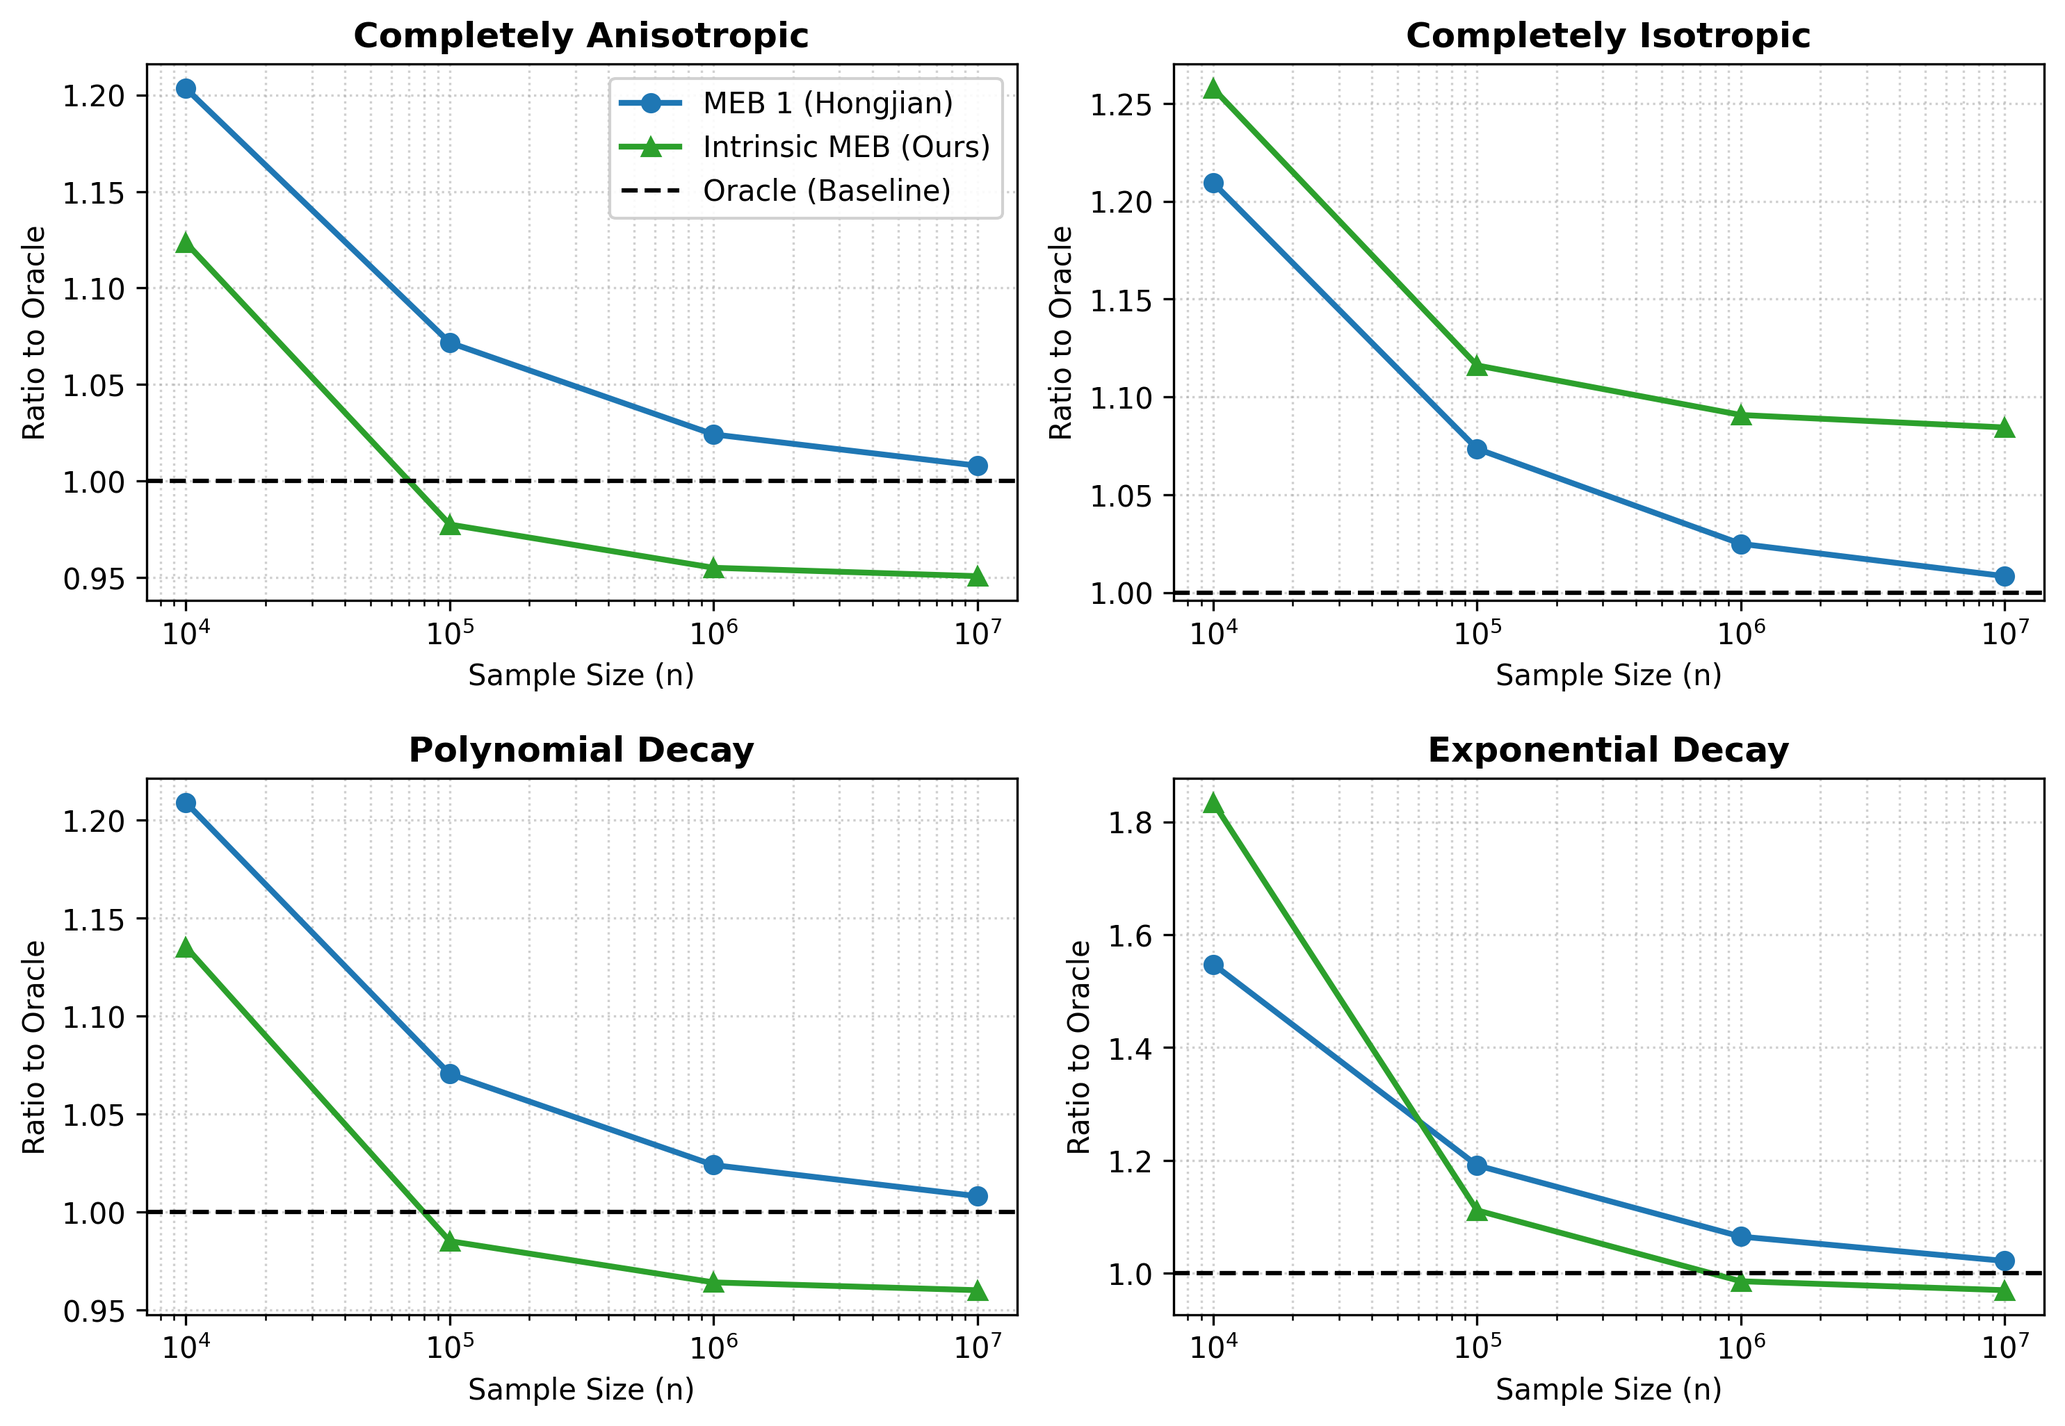
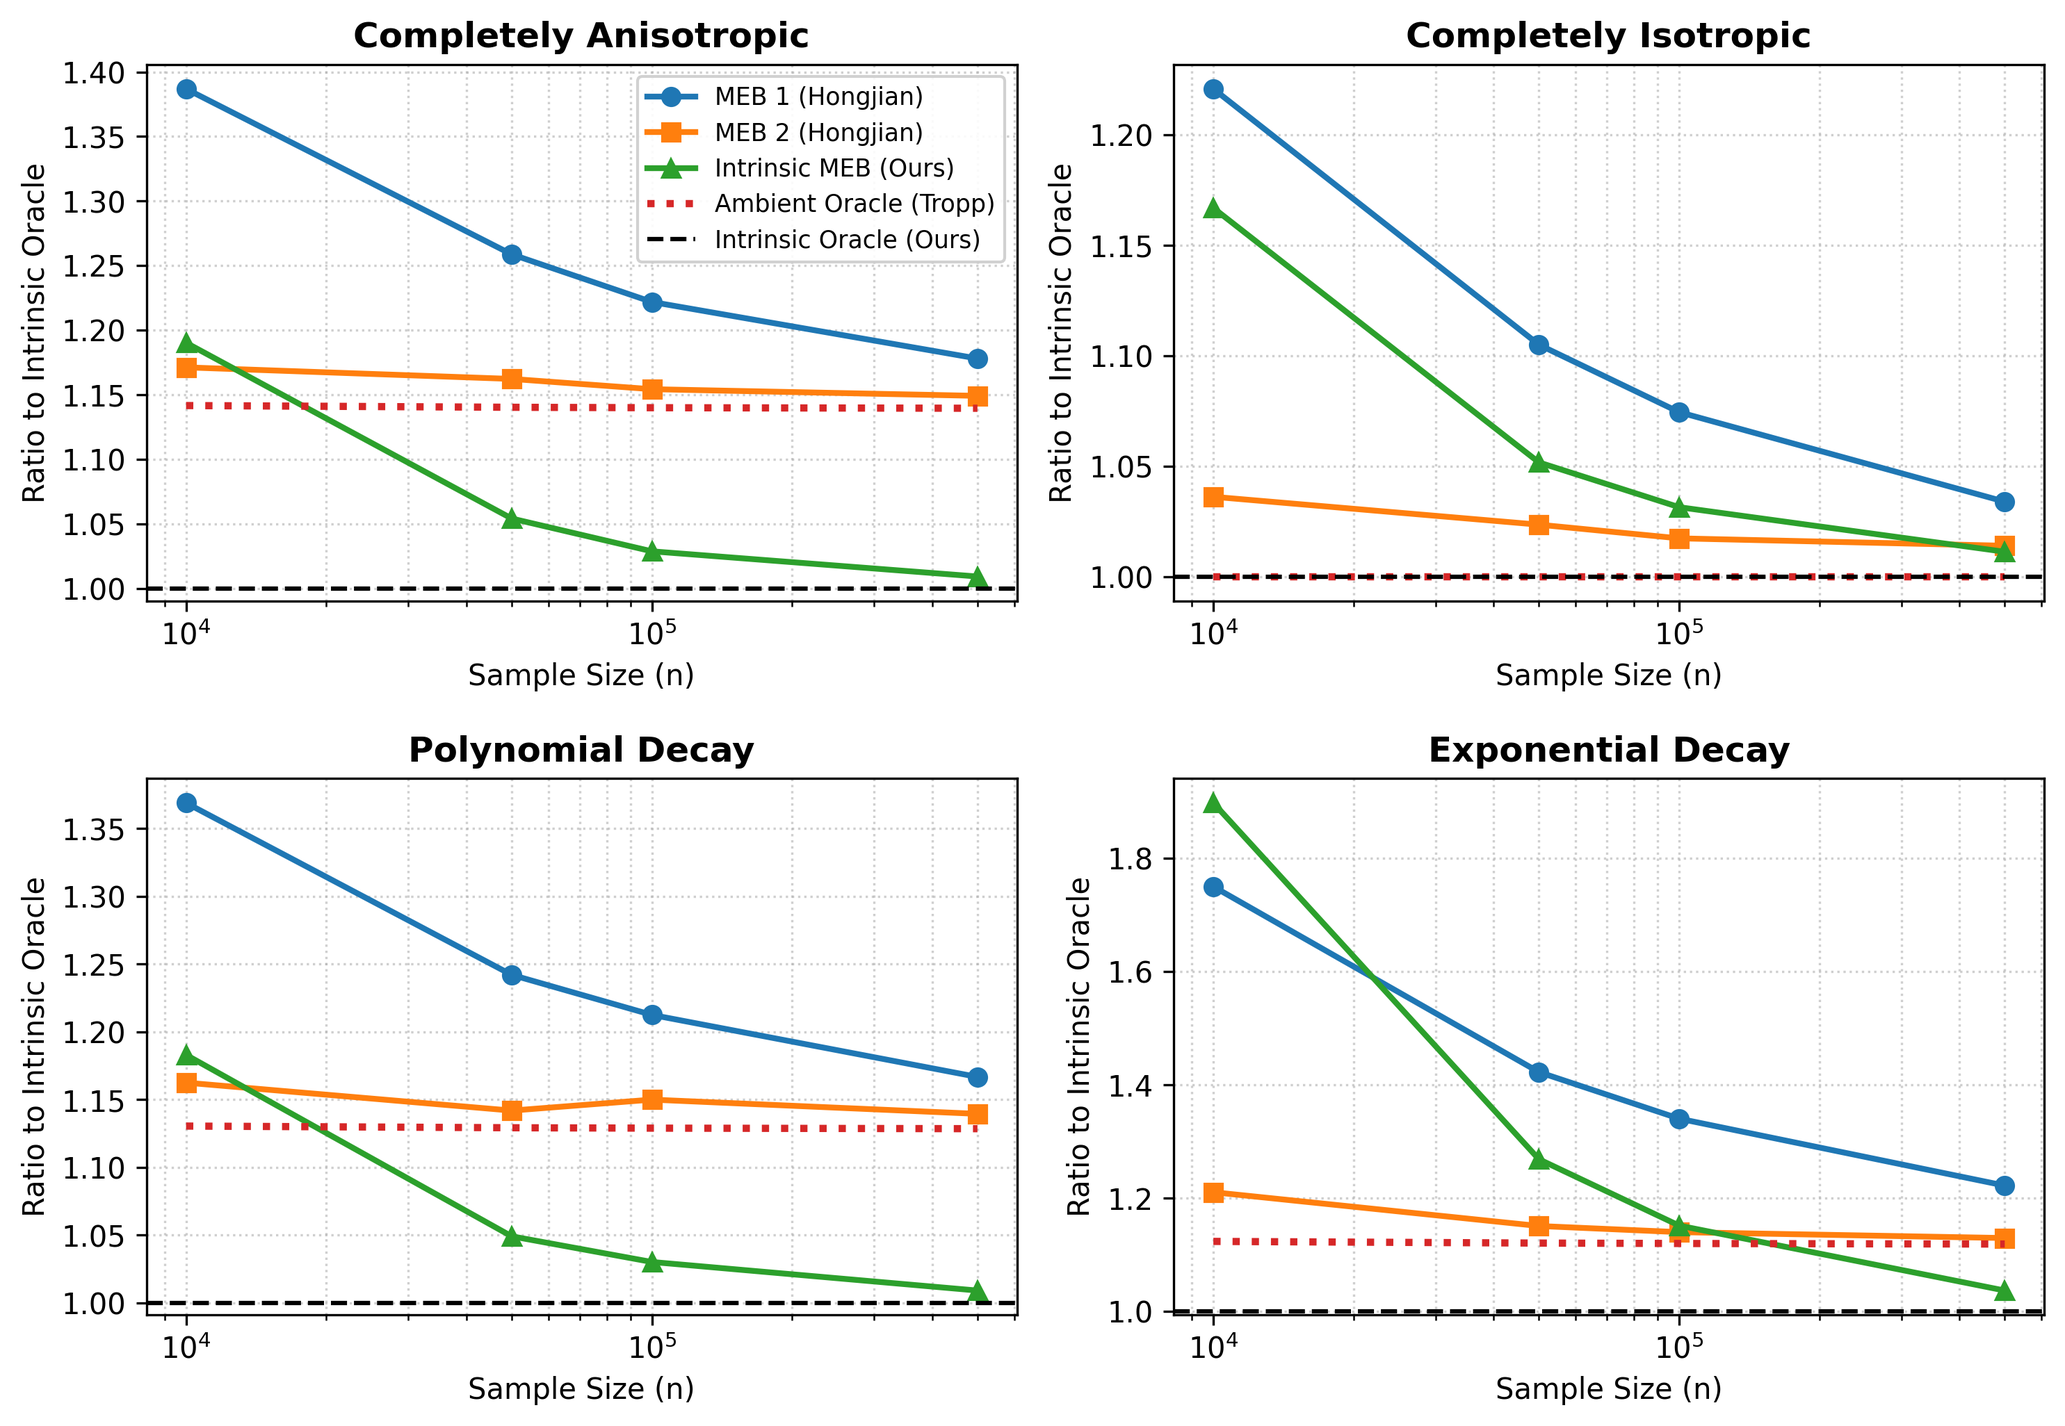
Before getting rid of exponential decay

diff --git a/hongjian_comparison.py b/hongjian_comparison.py
@@ -9,15 +9,10 @@ def psi_E(gamma):
     """Cumulant generating function for standard exponential."""
     return -np.log(1 - gamma) - gamma
 
+def psi_E(gamma):
+    return -np.log(1 - gamma) - gamma
+
 def simulate_inequalities(n_values, d=100, alpha=0.05, trials=50, run_meb2=True):
-    """
-    Simulates and compares the confidence radii of:
-      1. Oracle Matrix Bennett-Bernstein (D_tb)
-      2. Hongjian's MEB 1 (D_meb1)
-      3. Hongjian's MEB 2 (D_meb2) - Optional
-      4. Draft's Intrinsic Dimension MEB (R_n)
-    """
-    # Define the 4 scenarios for a_i
     indices = np.arange(1, d + 1)
     scenarios = {
         "1. Completely Anisotropic": np.array([1.0] + [0.0] * (d - 1)),
@@ -29,86 +24,86 @@ def simulate_inequalities(n_values, d=100, alpha=0.05, trials=50, run_meb2=True)
     results = []
 
     for scenario_name, a in scenarios.items():
-        # True variance parameters based on Unif[0, a_i]
         true_var = (a ** 2) / 12.0
         norm_V = np.max(true_var)
+        tr_V = np.sum(true_var)
+        true_intrinsic_dim = tr_V / norm_V
         
-
-        # Realistic worst-case parameters for the Draft's inequality
         c_bound = 1.0
-        B_bound = d * (c_bound ** 2)  # effectively just d
+        B_bound = d * (c_bound ** 2)
 
         for n in n_values:
-            assert n % 4 == 0, "n must be a multiple of 4 for this splitting scheme."
+            assert n % 4 == 0
             
-            d_tb_list, d_meb1_list, d_meb2_list, r_n_list = [], [], [], []
+            d_oracle_list, d_tb_list, d_meb1_list, d_meb2_list, r_n_list = [], [], [], [], []
             
             for _ in tqdm(range(trials)):
-                # -----------------------------------------------------------
-                # DATA GENERATION
-                # Shape: (n, d)
-                # -----------------------------------------------------------
                 X = np.random.uniform(0, a, size=(n, d))
                 
                 # -----------------------------------------------------------
-                # 1. ORACLE BENNETT-BERNSTEIN (Hongjian D_tb)
+                # 1A. DRAFT'S INTRINSIC ORACLE (Martinez-Taboada & Ramdas)
+                # Draft Eq 2 explicitly uses 2/delta already.
                 # -----------------------------------------------------------
-                term1_tb = (c_bound * np.log(d / alpha)) / (3 * n)
-                term2_tb = np.sqrt((2 * np.log(d / alpha) * norm_V) / n)
+                log_term_oracle = np.log((2 / alpha) * true_intrinsic_dim)
+                term1_oracle = np.sqrt((2 * norm_V * log_term_oracle) / n)
+                term2_oracle = (c_bound / (3 * n)) * log_term_oracle
+                d_oracle = term1_oracle + term2_oracle
+                d_oracle_list.append(d_oracle)
+
+                # -----------------------------------------------------------
+                # 1B. HONGJIAN'S AMBIENT ORACLE (Tropp)
+                # Adjusted d -> 2d for operator norm 
+                # -----------------------------------------------------------
+                log_2d_alpha = np.log((2 * d) / alpha)
+                term1_tb = (c_bound * log_2d_alpha) / (3 * n)
+                term2_tb = np.sqrt((2 * log_2d_alpha * norm_V) / n)
                 d_tb = term1_tb + term2_tb
                 d_tb_list.append(d_tb)
                 
-                
                 # -----------------------------------------------------------
-                # 2. HONGJIAN'S MEB 1 (D_meb1)
+                # 2. HONGJIAN'S MEB 1
+                # Adjusted d -> 2d
                 # -----------------------------------------------------------
                 diffs = X[0:n:2] - X[1:n:2] 
                 V_n_star_diag = np.sum(diffs ** 2, axis=0) / n
                 norm_V_n_star = np.max(V_n_star_diag)
                 
-                log_term_meb1 = np.log((n * d) / ((n - 1) * alpha))
-                log_term2_meb1 = np.log((2 * n * d) / alpha)
+                log_term_meb1 = np.log((n * 2 * d) / ((n - 1) * alpha))
+                log_term2_meb1 = np.log((4 * n * d) / alpha) # Originally 2*n*d, now 2*n*(2d)
                 
-                term1_meb1 = log_term_meb1 / (3 * n)
-                term2_meb1 = np.sqrt((2 * norm_V_n_star * log_term_meb1) / n)
-                term3_meb1 = (np.sqrt(5/3) + 1) * np.sqrt(log_term_meb1 * log_term2_meb1) / n
-                d_meb1 = term1_meb1 + term2_meb1 + term3_meb1
+                d_meb1 = (log_term_meb1 / (3 * n)) + \
+                         np.sqrt((2 * norm_V_n_star * log_term_meb1) / n) + \
+                         (np.sqrt(5/3) + 1) * np.sqrt(log_term_meb1 * log_term2_meb1) / n
                 d_meb1_list.append(d_meb1)
                 
                 # -----------------------------------------------------------
-                # 3. HONGJIAN'S MEB 2 (D_meb2) - Supermartingale Method
+                # 3. HONGJIAN'S MEB 2 (Supermartingale Method)
+                # Adjusted d -> 2d
                 # -----------------------------------------------------------
                 if run_meb2:
                     sum_X = np.zeros(d)
                     sum_X2 = np.zeros(d)
-                    
-                    v_bar_prev = max(0.25, 5 * np.log(d / alpha) / n)
+                    v_bar_prev = max(0.25, 5 * log_2d_alpha / n)
                     X_bar_prev = np.zeros(d)
-                    
                     sum_gamma = 0.0
                     sum_psi_E_diff = np.zeros(d)
                     
                     for i in range(1, n + 1):
                         x_i = X[i-1]
-                        
-                        # Calculate gamma_i
-                        gamma_i = np.sqrt((2 * np.log(d / alpha)) / (n * v_bar_prev))
+                        gamma_i = np.sqrt((2 * log_2d_alpha) / (n * v_bar_prev))
                         sum_gamma += gamma_i
-                        
-                        # Add psi_E term
                         diff_sq = (x_i - X_bar_prev) ** 2
                         sum_psi_E_diff += psi_E(gamma_i) * diff_sq
                         
-                        # Fast O(1) update of running variance for next iteration
                         sum_X += x_i
                         sum_X2 += x_i ** 2
                         X_bar_k = sum_X / i
                         V_bar_k = (sum_X2 / i) - (X_bar_k ** 2)
                         
-                        v_bar_prev = max(np.max(V_bar_k), 5 * np.log(d / alpha) / n)
+                        v_bar_prev = max(np.max(V_bar_k), 5 * log_2d_alpha / n)
                         X_bar_prev = X_bar_k
                         
-                    d_meb2 = (np.log(d / alpha) + np.max(sum_psi_E_diff)) / sum_gamma
+                    d_meb2 = (log_2d_alpha + np.max(sum_psi_E_diff)) / sum_gamma
                     d_meb2_list.append(d_meb2)
 
                 # -----------------------------------------------------------
@@ -116,13 +111,11 @@ def simulate_inequalities(n_values, d=100, alpha=0.05, trials=50, run_meb2=True)
                 # -----------------------------------------------------------
                 delta = alpha
                 d1 = ((n - 2) * delta) / n
-                d2 = delta / n
-                d3 = delta / n
+                d2, d3 = delta / n, delta / n
                 
                 X_prime = 0.5 * (diffs ** 2) 
                 Sigma_n_diag = (2 / n) * np.sum(X_prime, axis=0)
-                norm_Sigma_n = np.max(Sigma_n_diag)
-                tr_Sigma_n = np.sum(Sigma_n_diag)
+                norm_Sigma_n, tr_Sigma_n = np.max(Sigma_n_diag), np.sum(Sigma_n_diag)
                 
                 Z = np.sum(X_prime, axis=1)
                 varsigma_Z = np.std(Z, ddof=1) if len(Z) > 1 else 0
@@ -132,8 +125,7 @@ def simulate_inequalities(n_values, d=100, alpha=0.05, trials=50, run_meb2=True)
                 
                 X_prime_diffs = X_prime[0:n//2:2] - X_prime[1:n//2:2]
                 X_double_prime = 0.5 * (X_prime_diffs ** 2)
-                Sigma_prime_n_diag = (4 / n) * np.sum(X_double_prime, axis=0)
-                tr_Sigma_prime_n = np.sum(Sigma_prime_n_diag)
+                tr_Sigma_prime_n = np.sum((4 / n) * np.sum(X_double_prime, axis=0))
                 
                 Z_prime = np.sum(X_double_prime, axis=1)
                 varsigma_Z_prime = np.std(Z_prime, ddof=1) if len(Z_prime) > 1 else 0
@@ -147,38 +139,33 @@ def simulate_inequalities(n_values, d=100, alpha=0.05, trials=50, run_meb2=True)
                 
                 intrinsic_ratio = max(tau_u / sigma_u_sq, 1.0)
                 log_term_Rn = np.log((2 / d1) * intrinsic_ratio)
-                
-                term1_Rn = np.sqrt(sigma_u_sq) * np.sqrt((2 / n) * log_term_Rn)
-                term2_Rn = (c_bound / (3 * n)) * log_term_Rn
-                r_n = term1_Rn + term2_Rn
+                r_n = (np.sqrt(sigma_u_sq) * np.sqrt((2 / n) * log_term_Rn)) + ((c_bound / (3 * n)) * log_term_Rn)
                 r_n_list.append(r_n)
 
             # Averages
+            avg_d_oracle = np.mean(d_oracle_list)
             avg_d_tb = np.mean(d_tb_list)
-            avg_d_meb1 = np.mean(d_meb1_list)
-            avg_r_n = np.mean(r_n_list)
             
             row_data = {
                 "Scenario": scenario_name,
                 "n": n,
-                "Oracle (D_tb)": avg_d_tb,
-                "MEB 1 / Oracle": avg_d_meb1 / avg_d_tb,
-                "Draft / Oracle": avg_r_n / avg_d_tb
+                "Oracle (Intrinsic)": avg_d_oracle,
+                "Ambient Oracle / Intrinsic": avg_d_tb / avg_d_oracle,
+                "MEB 1 / Oracle": np.mean(d_meb1_list) / avg_d_oracle,
+                "Draft / Oracle": np.mean(r_n_list) / avg_d_oracle
             }
             
             if run_meb2:
-                avg_d_meb2 = np.mean(d_meb2_list)
-                row_data["MEB 2 / Oracle"] = avg_d_meb2 / avg_d_tb
+                row_data["MEB 2 / Oracle"] = np.mean(d_meb2_list) / avg_d_oracle
                 
             results.append(row_data)
 
     df = pd.DataFrame(results)
-    
-    # Reorder columns for readability
     if run_meb2:
-        df = df[['Scenario', 'n', 'Oracle (D_tb)', 'MEB 1 / Oracle', 'MEB 2 / Oracle', 'Draft / Oracle']]
-    
+        df = df[['Scenario', 'n', 'Oracle (Intrinsic)', 'Ambient Oracle / Intrinsic', 'MEB 1 / Oracle', 'MEB 2 / Oracle', 'Draft / Oracle']]
     return df
+
+
 
 def save_latex_tables(df_results, filename="neurips_simulation_table.tex"):
     """
@@ -224,70 +211,66 @@ def save_latex_tables(df_results, filename="neurips_simulation_table.tex"):
     print(f"\n[+] Success! A single unified LaTeX table has been saved to '{filename}'")
 
 def save_plots(df_results, filename="neurips_simulation_plot.png"):
-    """
-    Generates a 2x2 grid of plots showing the ratio of each empirical bound 
-    to the Oracle bound across different sample sizes.
-    """
     scenarios = df_results["Scenario"].unique()
-    
     fig, axes = plt.subplots(2, 2, figsize=(10, 7))
     axes = axes.flatten() 
     
-    colors = {"MEB 1": "#1f77b4", "MEB 2": "#ff7f0e", "Draft": "#2ca02c"}
+    colors = {"MEB 1": "#1f77b4", "MEB 2": "#ff7f0e", "Draft": "#2ca02c", "Ambient Oracle": "#d62728"}
     markers = {"MEB 1": "o", "MEB 2": "s", "Draft": "^"}
 
     for i, scenario in enumerate(scenarios):
         ax = axes[i]
         group = df_results[df_results["Scenario"] == scenario]
-        
         n_vals = group["n"]
         
-        # Plot MEB 1
+        # Plot Hongjian MEB 1
         ax.plot(n_vals, group["MEB 1 / Oracle"], 
                 color=colors["MEB 1"], marker=markers["MEB 1"], 
                 linewidth=2, label="MEB 1 (Hongjian)")
         
-        # Plot MEB 2 if it exists
+        # Plot Hongjian MEB 2 
         if "MEB 2 / Oracle" in group.columns:
             ax.plot(n_vals, group["MEB 2 / Oracle"], 
                     color=colors["MEB 2"], marker=markers["MEB 2"], 
                     linewidth=2, label="MEB 2 (Hongjian)")
             
-        # Plot Your Draft's Bound
+        # Plot Draft Bound
         ax.plot(n_vals, group["Draft / Oracle"], 
                 color=colors["Draft"], marker=markers["Draft"], 
                 linewidth=2, label="Intrinsic MEB (Ours)")
         
-        # Add the Oracle baseline
-        ax.axhline(y=1.0, color="black", linestyle="--", linewidth=1.5, label="Oracle (Baseline)")
+        # Plot the Ambient Oracle Reference Line
+        ax.plot(n_vals, group["Ambient Oracle / Intrinsic"], 
+                color=colors["Ambient Oracle"], linestyle=":", 
+                linewidth=2.5, label="Ambient Oracle (Tropp)")
+
+        # Add the Intrinsic Oracle baseline at y = 1.0
+        ax.axhline(y=1.0, color="black", linestyle="--", linewidth=1.5, label="Intrinsic Oracle (Ours)")
         
         ax.set_xscale("log")
         clean_title = scenario.split(". ", 1)[-1] 
         ax.set_title(clean_title, fontweight="bold")
         ax.set_xlabel("Sample Size (n)")
-        ax.set_ylabel("Ratio to Oracle")
+        ax.set_ylabel("Ratio to Intrinsic Oracle")
         ax.grid(True, which="both", linestyle=":", alpha=0.6)
         
         if i == 0:
-            ax.legend(loc="best", framealpha=0.9)
+            ax.legend(loc="best", framealpha=0.9, fontsize="small")
 
     plt.tight_layout()
-    
-    # Changed format to "png" here! (dpi=300 ensures it stays crisp for the paper)
-    plt.savefig(filename, dpi=300, bbox_inches="tight") #format="png"
+    plt.savefig(filename, format="png", dpi=300, bbox_inches="tight")
     plt.close()
     
     print(f"\n[+] Success! Plot saved as a high-res PNG to '{filename}'")
-
     
 # Run the simulation 
 n_values = [1000, 10000, 100000, 1000000, 10000000]
 n_values = [10000, 100000, 1000000, 10000000]
-# n_values = [100, 1000]
+n_values = [10000, 50000, 100000, 500000]
 d = 3
 trials = 5
 alpha = 0.05
-df_results = simulate_inequalities(n_values, d = d, alpha = alpha, trials = trials, run_meb2=False)
+df_results = simulate_inequalities(n_values, d = d, alpha = alpha, trials = trials, run_meb2=True)
 
 # Print results
 for scenario, group in df_results.groupby("Scenario"):

diff --git a/neurips_simulation_tables.tex b/neurips_simulation_tables.tex
@@ -8,31 +8,31 @@
 \caption{Ratio of confidence radii across MEB inequalities under various spectral decays. Lower is better.}
 \label{tab:meb_simulations_all}
 \resizebox{\textwidth}{!}{
-\begin{tabular}{llccc}
+\begin{tabular}{llccccc}
 \toprule
- &  & Oracle (D_tb) & MEB 1 / Oracle & Draft / Oracle \\
-Scenario & n &  &  &  \\
+ &  & Oracle (Intrinsic) & Ambient Oracle / Intrinsic & MEB 1 / Oracle & MEB 2 / Oracle & Draft / Oracle \\
+Scenario & n &  &  &  &  &  \\
 \midrule
-\multirow[t]{4}{*}{Completely Anisotropic} & 10000 & 0.008 & 1.203 & 1.123 \\
- & 100000 & 0.003 & 1.072 & 0.978 \\
- & 1000000 & 0.001 & 1.024 & 0.955 \\
- & 10000000 & 0.000 & 1.008 & 0.951 \\
-\cline{1-5}
-\multirow[t]{4}{*}{Completely Isotropic} & 10000 & 0.008 & 1.209 & 1.258 \\
- & 100000 & 0.003 & 1.073 & 1.116 \\
- & 1000000 & 0.001 & 1.025 & 1.091 \\
- & 10000000 & 0.000 & 1.008 & 1.084 \\
-\cline{1-5}
-\multirow[t]{4}{*}{Polynomial Decay} & 10000 & 0.008 & 1.209 & 1.135 \\
- & 100000 & 0.003 & 1.070 & 0.985 \\
- & 1000000 & 0.001 & 1.024 & 0.964 \\
- & 10000000 & 0.000 & 1.008 & 0.960 \\
-\cline{1-5}
-\multirow[t]{4}{*}{Exponential Decay} & 10000 & 0.003 & 1.548 & 1.834 \\
- & 100000 & 0.001 & 1.191 & 1.112 \\
- & 1000000 & 0.000 & 1.065 & 0.986 \\
- & 10000000 & 0.000 & 1.022 & 0.970 \\
-\cline{1-5}
+\multirow[t]{4}{*}{Completely Anisotropic} & 10000 & 0.008 & 1.142 & 1.387 & 1.171 & 1.190 \\
+ & 50000 & 0.004 & 1.140 & 1.259 & 1.162 & 1.054 \\
+ & 100000 & 0.002 & 1.140 & 1.222 & 1.154 & 1.029 \\
+ & 500000 & 0.001 & 1.140 & 1.178 & 1.149 & 1.009 \\
+\cline{1-7}
+\multirow[t]{4}{*}{Completely Isotropic} & 10000 & 0.009 & 1.000 & 1.221 & 1.036 & 1.167 \\
+ & 50000 & 0.004 & 1.000 & 1.105 & 1.023 & 1.052 \\
+ & 100000 & 0.003 & 1.000 & 1.074 & 1.017 & 1.031 \\
+ & 500000 & 0.001 & 1.000 & 1.034 & 1.014 & 1.011 \\
+\cline{1-7}
+\multirow[t]{4}{*}{Polynomial Decay} & 10000 & 0.008 & 1.130 & 1.369 & 1.163 & 1.183 \\
+ & 50000 & 0.004 & 1.129 & 1.242 & 1.142 & 1.049 \\
+ & 100000 & 0.003 & 1.129 & 1.213 & 1.150 & 1.030 \\
+ & 500000 & 0.001 & 1.129 & 1.167 & 1.140 & 1.009 \\
+\cline{1-7}
+\multirow[t]{4}{*}{Exponential Decay} & 10000 & 0.003 & 1.123 & 1.750 & 1.210 & 1.898 \\
+ & 50000 & 0.001 & 1.120 & 1.422 & 1.150 & 1.268 \\
+ & 100000 & 0.001 & 1.120 & 1.340 & 1.140 & 1.151 \\
+ & 500000 & 0.000 & 1.119 & 1.222 & 1.129 & 1.036 \\
+\cline{1-7}
 \bottomrule
 \end{tabular}
 }
